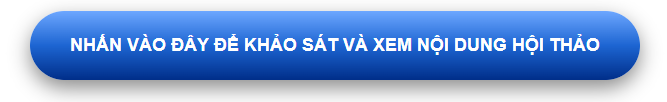
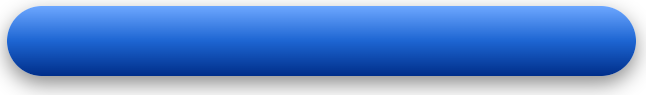
update

Changed region(s): [[0.0, 0.0632, 1.0, 0.9474], [0.0929, 0.3158, 0.8978, 0.5474]]

diff --git a/index.html b/index.html
@@ -412,18 +412,61 @@
                     box-shadow: 0 8px 20px rgba(0, 0, 0, 0.45);
                     font-family: Arial, sans-serif;
                     text-align: center;
+                    width: 100%;
+                    height: 70px;
                   "
                 >
                   Nhấn vào đây để khảo sát và xem nội dung hội thảo
                 </a> -->
-                <img
-                  src="https://sevier-dev.github.io/event-mail-01/asset/button.png"
-                />
-                <!-- <a href="https://hypertour.knyk.vn/gialai/" target="_blank">
-                  <img src="./asset/leftButton.png" />
-                  <img src="./asset/centerButton.png" />
-                  <img src="./asset/rightButton.png" />
-                </a> -->
+
+                <a href="https://hypertour.knyk.vn/gialai/" target="_blank">
+                  <table
+                    cellpadding="0"
+                    cellspacing="0"
+                    border="0"
+                    style="display: inline-block"
+                  >
+                    <tr>
+                      <td style="padding: 0; margin: 0">
+                        <img
+                          src="https://sevier-dev.github.io/event-mail-01/asset/leftButton.png"
+                          style="display: block"
+                        />
+                      </td>
+                      <td
+                        style="
+                          padding: 0;
+                          margin: 0;
+                          background-image: url('https://sevier-dev.github.io/event-mail-01/asset/centerButton.png');
+                          background-size: cover;
+                          background-repeat: no-repeat;
+                          background-position: center;
+                        "
+                      >
+                        <p
+                          style="
+                            text-decoration: none;
+                            text-transform: uppercase;
+                            font-family: Arial, sans-serif;
+                            text-align: center;
+                            color: #ffffff;
+                            padding: 24px 0px;
+                            font-weight: bold;
+                            font-size: 18px;
+                          "
+                        >
+                          Nhấn vào đây để khảo sát và xem nội dung hội thảo
+                        </p>
+                      </td>
+                      <td style="padding: 0; margin: 0">
+                        <img
+                          src="https://sevier-dev.github.io/event-mail-01/asset/rightButton.png"
+                          style="display: block"
+                        />
+                      </td>
+                    </tr>
+                  </table>
+                </a>
               </td>
               <td width="30%">
                 <img
